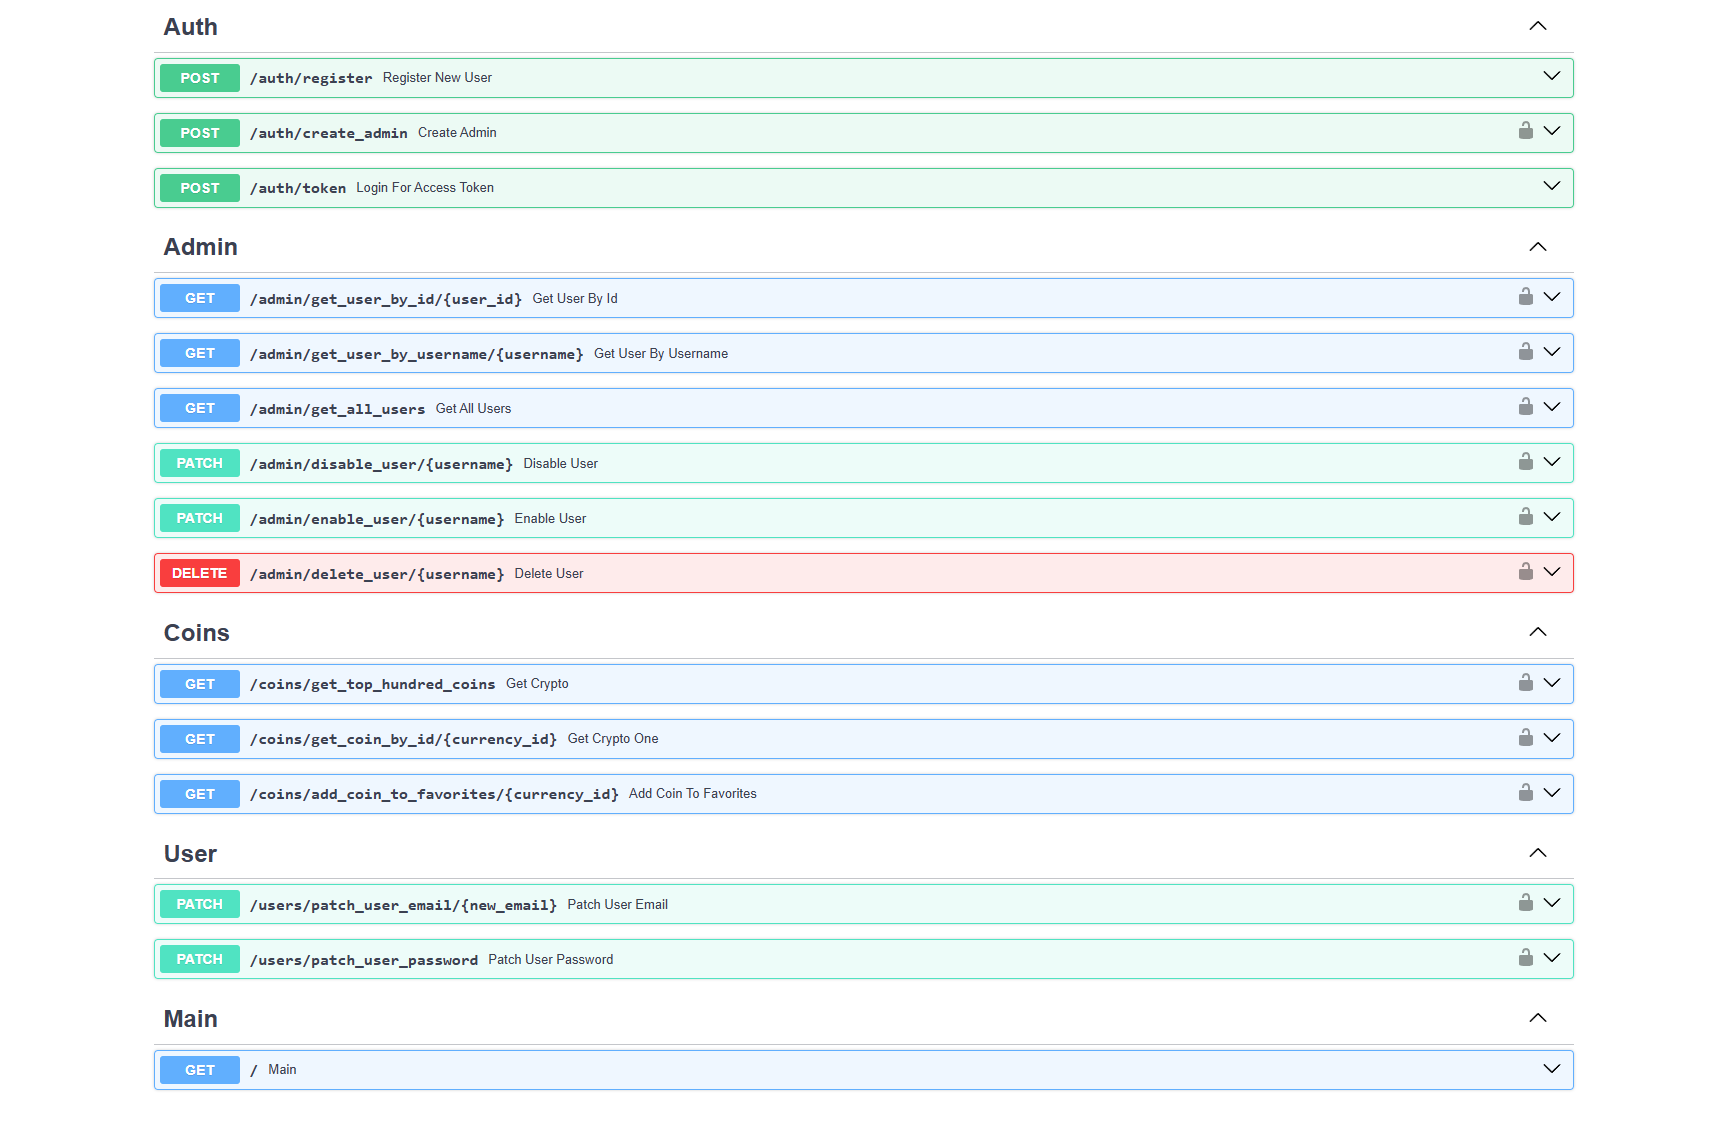
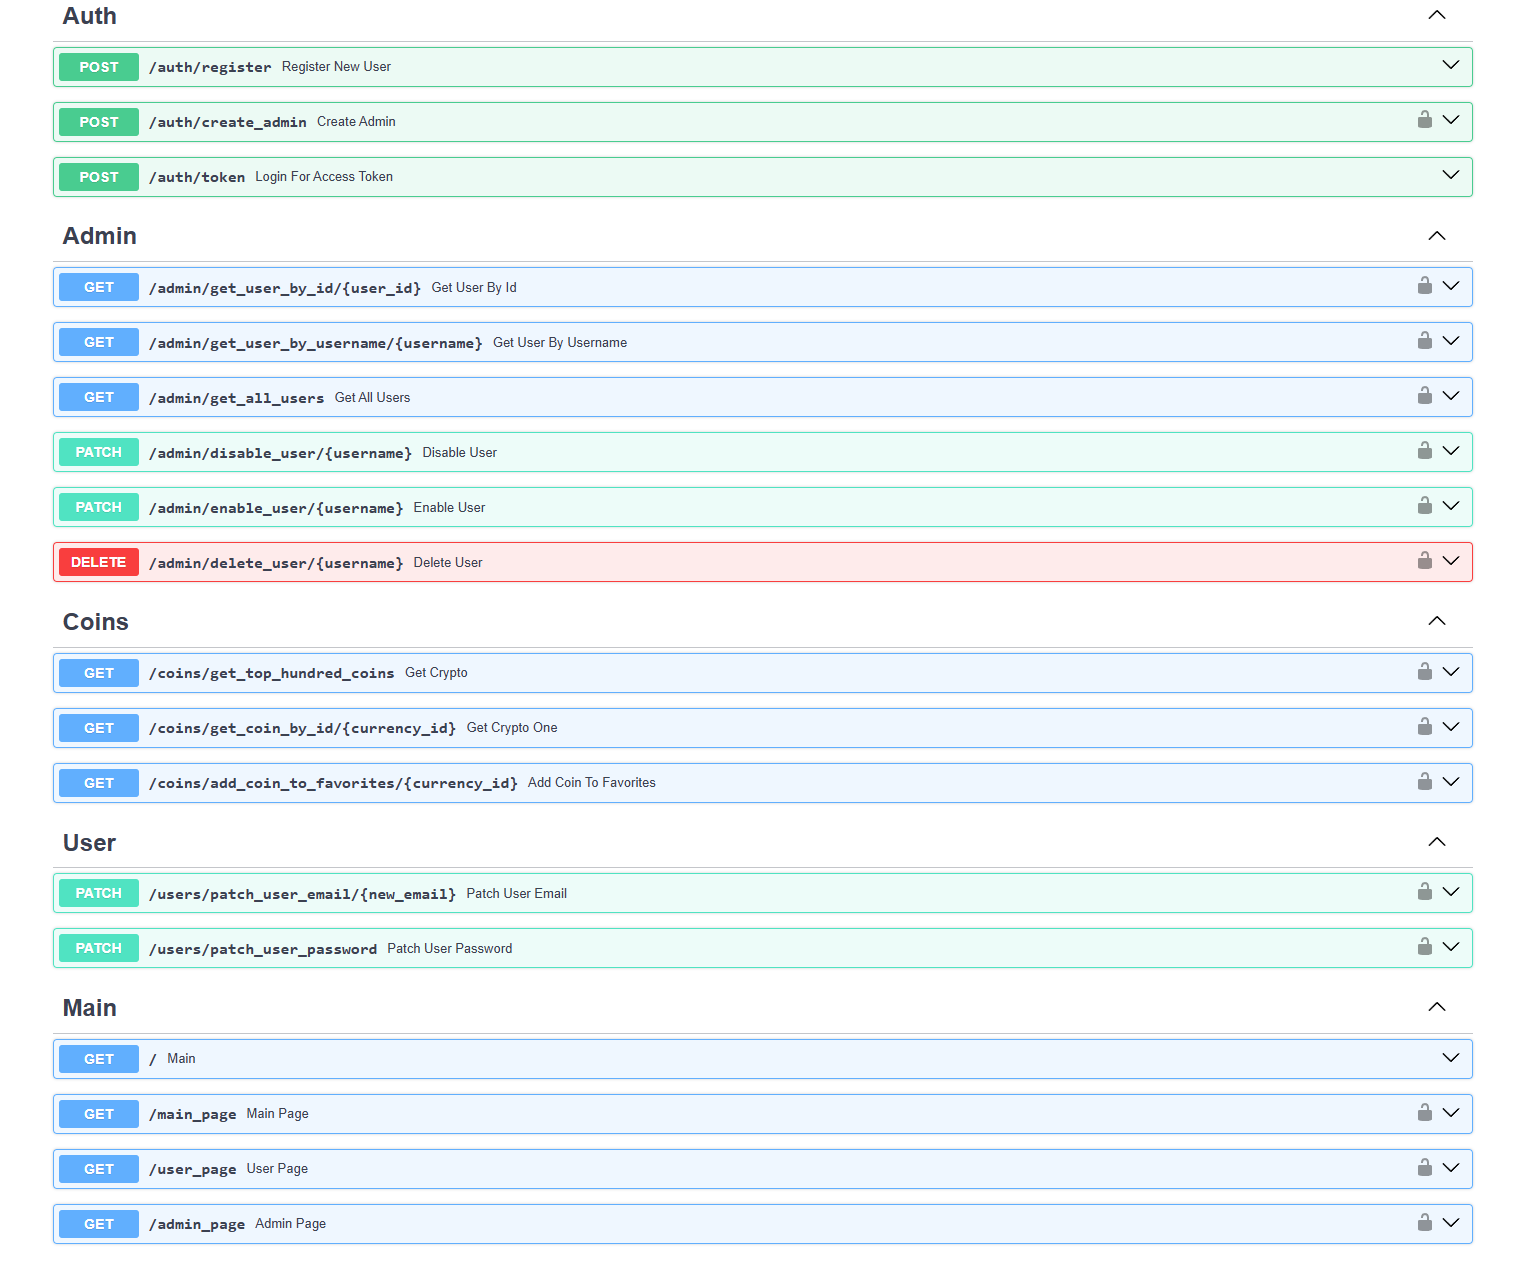
изменение readme, fix bugs

Changed region(s): [[0.0311, 0.0, 0.963, 0.9947], [0.8698, 0.9014, 0.9009, 0.9325]]

diff --git a/fronted/main_page/index.html b/fronted/main_page/index.html
@@ -254,9 +254,19 @@
            alert('Please log in to view this page.');
         }
 
-        function goToProfile() {
-            // Implement profile navigation here
-            alert("Going to profile page (not implemented yet)");
+function goToProfile() {
+             const token = localStorage.getItem('token');
+
+            if (token) {
+                 window.location.href = '/user_page';
+                // This will be on the /user_page, not in this page.
+
+            } else {
+                alert('Not authenticated. Please login.');
+                authContainer.style.display = 'block';
+                mainPage.style.display = 'none';
+                registerContainer.style.display = 'none';
+            }
         }
     </script>
 

diff --git a/fronted/auth_page/index.html b/fronted/auth_page/index.html
@@ -191,6 +191,7 @@
                     const data = await response.json();
                     // Assuming the token is in data.access_token
                     localStorage.setItem('token', data.access_token);
+                    window.location.href = '/main_page';
                     showMainPage();
                 } else {
                     errorDiv.textContent = 'Invalid credentials';

diff --git a/fronted/admin_page/index.html b/fronted/admin_page/index.html
@@ -5,6 +5,6 @@
     <title>Title</title>
 </head>
 <body>
-
+Admin
 </body>
 </html>

diff --git a/fronted/user_page/index.html b/fronted/user_page/index.html
@@ -5,6 +5,6 @@
     <title>Title</title>
 </head>
 <body>
-
+User
 </body>
 </html>

diff --git a/app/api/admin/admin_endpoints.py b/app/api/admin/admin_endpoints.py
@@ -3,14 +3,14 @@ from typing import Annotated
 from fastapi import APIRouter, HTTPException, Depends, status
 
 from ..models import UserModel
-from app.core.database.crud import UserCrud, UserConModel
+from app.core.database.crud import UserCrud, UserRootModel
 from app.api.depends import depends
 
 router = APIRouter(prefix='/admin', tags=['Admin'])
 
 
 @router.get('/get_user_by_id/{user_id}')
-async def get_user_by_id(user_id: int, admin: Annotated[UserConModel, Depends(depends.get_current_user)]) -> UserModel:
+async def get_user_by_id(user_id: int, admin: Annotated[UserRootModel, Depends(depends.get_current_user)]) -> UserModel:
     """эндпоинт вернет пользователя по id"""
     if admin.root == 'admin':
         return await UserCrud.get_user_by_id(user_id=user_id)
@@ -19,7 +19,7 @@ async def get_user_by_id(user_id: int, admin: Annotated[UserConModel, Depends(de
 
 @router.get('/get_user_by_username/{username}')
 async def get_user_by_username(username: str,
-                               admin: Annotated[UserConModel, Depends(depends.get_current_user)]) -> UserModel:
+                               admin: Annotated[UserRootModel, Depends(depends.get_current_user)]) -> UserModel:
     """эндпоинт вернет пользователя по имени"""
     if admin.root == 'admin':
         return await UserCrud.get_user_by_username(username=username)
@@ -27,7 +27,7 @@ async def get_user_by_username(username: str,
 
 
 @router.get('/get_all_users')
-async def get_all_users(admin: Annotated[UserConModel, Depends(depends.get_current_user)]) -> list:
+async def get_all_users(admin: Annotated[UserRootModel, Depends(depends.get_current_user)]) -> list:
     """эндпоинт вернет всех пользователей"""
     if admin.root == 'admin':
         return await UserCrud.get_all_users()
@@ -35,7 +35,7 @@ async def get_all_users(admin: Annotated[UserConModel, Depends(depends.get_curre
 
 
 @router.patch('/disable_user/{username}')
-async def disable_user(username: str, admin: Annotated[UserConModel, Depends(depends.get_current_user)]) -> dict[str, str]:
+async def disable_user(username: str, admin: Annotated[UserRootModel, Depends(depends.get_current_user)]) -> dict[str, str]:
     """эндпоинт заблокирует пользователя"""
     if admin.root == 'admin':
         return await UserCrud.disable_user(username=username)
@@ -43,7 +43,7 @@ async def disable_user(username: str, admin: Annotated[UserConModel, Depends(dep
 
 
 @router.patch('/enable_user/{username}')
-async def enable_user(username: str, admin: Annotated[UserConModel, Depends(depends.get_current_user)]) -> dict[str, str]:
+async def enable_user(username: str, admin: Annotated[UserRootModel, Depends(depends.get_current_user)]) -> dict[str, str]:
     """эндпоинт разблокирует пользователя"""
     if admin.root == 'admin':
         return await UserCrud.enable_user(username=username)
@@ -51,7 +51,7 @@ async def enable_user(username: str, admin: Annotated[UserConModel, Depends(depe
 
 
 @router.delete('/delete_user/{username}')
-async def delete_user(username: str, admin: Annotated[UserConModel, Depends(depends.get_current_user)]) -> dict[str, str]:
+async def delete_user(username: str, admin: Annotated[UserRootModel, Depends(depends.get_current_user)]) -> dict[str, str]:
     """эндпоинт удалит пользователя"""
     if admin.root == 'admin':
         try:

diff --git a/app/core/database/crud.py b/app/core/database/crud.py
@@ -3,12 +3,12 @@ from pydantic import EmailStr
 
 from app.core.config.config import session_maker
 from app.core.database.schemas import UserSchemas, CoinsFavoritesSchemas
-from app.api.models import UserModel, CoinModel, UserConModel
+from app.api.models import UserModel, CoinModel, UserRootModel
 
 
 class UserCrud:
     @staticmethod
-    async def create_user(user_input: UserConModel) -> dict[str, str]:
+    async def create_user(user_input: UserRootModel) -> dict[str, str]:
         """Функция добавит нового пользователя в БД"""
         async with session_maker.begin() as session:
             user = UserSchemas(**user_input.model_dump())
@@ -16,21 +16,21 @@ class UserCrud:
             return {'message': 'user was created'}
 
     @staticmethod
-    async def get_user_by_id(user_id: int) -> UserModel | None:
+    async def get_user_by_id(user_id: int) -> UserRootModel | None:
         """Вернет пользователя по id"""
         async with session_maker.begin() as session:
             user = await session.get(UserSchemas, user_id)
-            return UserModel.model_validate(user)
+            return UserRootModel.model_validate(user)
 
     @staticmethod
-    async def get_user_by_username(username: str) -> UserModel | dict[str, str]:
+    async def get_user_by_username(username: str) -> UserRootModel | dict[str, str]:
         """Получение пользователя по имени"""
         async with session_maker.begin() as session:
             query = select(UserSchemas).where(UserSchemas.username == username)
             result = await session.execute(query)
             user = result.scalar_one_or_none()
             if user:
-                return UserModel.model_validate(user)
+                return UserRootModel.model_validate(user)
             return {'message': 'user not found'}
 
     @staticmethod
@@ -45,13 +45,13 @@ class UserCrud:
             return None
 
     @staticmethod
-    async def get_all_users() -> list[UserModel]:
+    async def get_all_users() -> list[UserRootModel]:
         """Вернет всех пользователей"""
         async with session_maker.begin() as session:
             query = select(UserSchemas)
             result = await session.execute(query)
             users = result.scalars().all()
-            return [UserModel.model_validate(user) for user in users]
+            return [UserRootModel.model_validate(user) for user in users]
 
     @staticmethod
     async def delete_user(username: str) -> dict[str, str]:

diff --git a/app/main.py b/app/main.py
@@ -1,12 +1,14 @@
 from contextlib import asynccontextmanager
 from pathlib import Path
+from typing import Annotated
 
 import uvicorn
-from fastapi import FastAPI, Request
+from fastapi import FastAPI, Request, Depends, HTTPException, status
 from fastapi.templating import Jinja2Templates
-from fastapi.staticfiles import StaticFiles
 
 from api import router_auth, router_admin, router_coins, router_users
+from app.api.depends import depends
+from app.api.models import UserModel, UserRootModel
 from core.config.config import engine
 from core.database.schemas import Base
 
@@ -28,9 +30,10 @@ app.include_router(router_users)
 BASE_DIR = Path(__file__).parent.parent
 
 
-app.mount('/auth_page', StaticFiles(directory=f'{BASE_DIR}/fronted/auth_page'))
 templates_auth = Jinja2Templates(directory=f'{BASE_DIR}/fronted/auth_page')
-
+templates_main = Jinja2Templates(directory=f'{BASE_DIR}/fronted/main_page')
+templates_user = Jinja2Templates(directory=f'{BASE_DIR}/fronted/user_page')
+templates_admin = Jinja2Templates(directory=f'{BASE_DIR}/fronted/admin_page')
 
 
 @app.get('/', tags=['Main'])
@@ -38,6 +41,21 @@ async def main(request: Request):
     return templates_auth.TemplateResponse('index.html', {'request': request})
 
 
+@app.get('/main_page', tags=['Main'])
+async def main_page(request: Request, user: Annotated[UserModel, Depends(depends.get_current_user)]):
+    return templates_main.TemplateResponse('index.html', {'request': request})
+
+
+@app.get('/user_page', tags=['Main'])
+async def user_page(request: Request, user: Annotated[UserModel, Depends(depends.get_current_user)]):
+    return templates_user.TemplateResponse('index.html', {'request': request})
+
+
+@app.get('/admin_page', tags=['Main'])
+async def admin_page(request: Request, admin: Annotated[UserRootModel, Depends(depends.get_current_user)]):
+    if admin.root == 'admin':
+        return templates_admin.TemplateResponse('index.html', {'request': request})
+    raise HTTPException(status_code=status.HTTP_403_FORBIDDEN, detail='not admin')
 
 if __name__ == '__main__':
     uvicorn.run('main:app')

diff --git a/app/api/auth/auth_endpoints.py b/app/api/auth/auth_endpoints.py
@@ -5,7 +5,7 @@ from fastapi import APIRouter, Depends, HTTPException, status
 from fastapi.security import OAuth2PasswordRequestForm
 
 from app.api.depends import depends
-from app.api.models import UserModel, Token, UserConModel
+from app.api.models import UserModel, Token, UserRootModel
 from app.core.config.config import setting_token
 from app.core.database.crud import UserCrud
 from app.api.depends.depends import get_password_hash, verify_password, create_access_token
@@ -16,14 +16,14 @@ router = APIRouter(prefix='/auth', tags=['Auth'])
 @router.post('/register')
 async def register_new_user(user: UserModel = Depends()) -> dict[str, str]:
     """эндпоинт для регистрации"""
-    user_ = UserConModel(**user.model_dump())
+    user_ = UserRootModel(**user.model_dump())
     hashed_password = get_password_hash(user.password)
     user_.password = hashed_password
     return await UserCrud.create_user(user_input=user_)
 
 
 @router.post('/create_admin')
-async def create_admin(admin_root: Annotated[UserConModel, Depends(depends.get_current_user)], admin: UserConModel = Depends()) -> dict[str, str]:
+async def create_admin(admin_root: Annotated[UserRootModel, Depends(depends.get_current_user)], admin: UserRootModel = Depends()) -> dict[str, str]:
     """эндпоинт для регистрации админа"""
     hashed_password = get_password_hash(admin.password)
     admin.password = hashed_password

diff --git a/app/api/depends/depends.py b/app/api/depends/depends.py
@@ -7,7 +7,7 @@ from passlib.context import CryptContext
 from fastapi.security import OAuth2PasswordBearer
 from fastapi import HTTPException, status, Depends
 
-from app.api.models import TokenData, UserModel
+from app.api.models import TokenData, UserModel, UserRootModel
 from app.core.config.config import setting_token
 from app.core.database.crud import UserCrud
 
@@ -38,7 +38,7 @@ def create_access_token(data: dict, expires_delta: timedelta | None = None):
     return encoded_jwt
 
 
-async def get_current_user(token: Annotated[str, Depends(oauth2_scheme)]) -> UserModel:
+async def get_current_user(token: Annotated[str, Depends(oauth2_scheme)]) -> UserRootModel:
     """Проверит текущего пользователя"""
     credentials_exception = HTTPException(
         status_code=status.HTTP_401_UNAUTHORIZED,

diff --git a/app/api/users/users_endpoints.py b/app/api/users/users_endpoints.py
@@ -18,8 +18,8 @@ async def patch_user_email(new_email: EmailStr, user: Annotated[UserModel, Depen
 
 
 @router.patch('/patch_user_password')
-async def patch_user_password(password: str, new_password: str, user: Annotated[UserModel, Depends(
-    depends.get_current_user)]) -> dict[str, str]:
+async def patch_user_password(password: str, new_password: str, user: Annotated[UserModel,
+    Depends(depends.get_current_user)]) -> dict[str, str]:
     """эндпоинт обновит пароль пользователя"""
     user = await UserCrud.get_user_by_username(username=user.username)
     hash_new_password = get_password_hash(new_password)

diff --git a/app/api/models.py b/app/api/models.py
@@ -10,11 +10,12 @@ class UserModel(Base):
     email: EmailStr
     username: str
     password: str
+    disabled: bool = False
 
     model_config = ConfigDict(from_attributes=True)
 
-class UserConModel(UserModel):
-    disabled: bool = False
+
+class UserRootModel(UserModel):
     root: str = 'basic'
 
     model_config = ConfigDict(from_attributes=True)

diff --git a/readme.md b/readme.md
@@ -28,3 +28,5 @@ ___
 <p align="center">
   <img width="500" height="600" src="register.png">
 </p>
+
+
